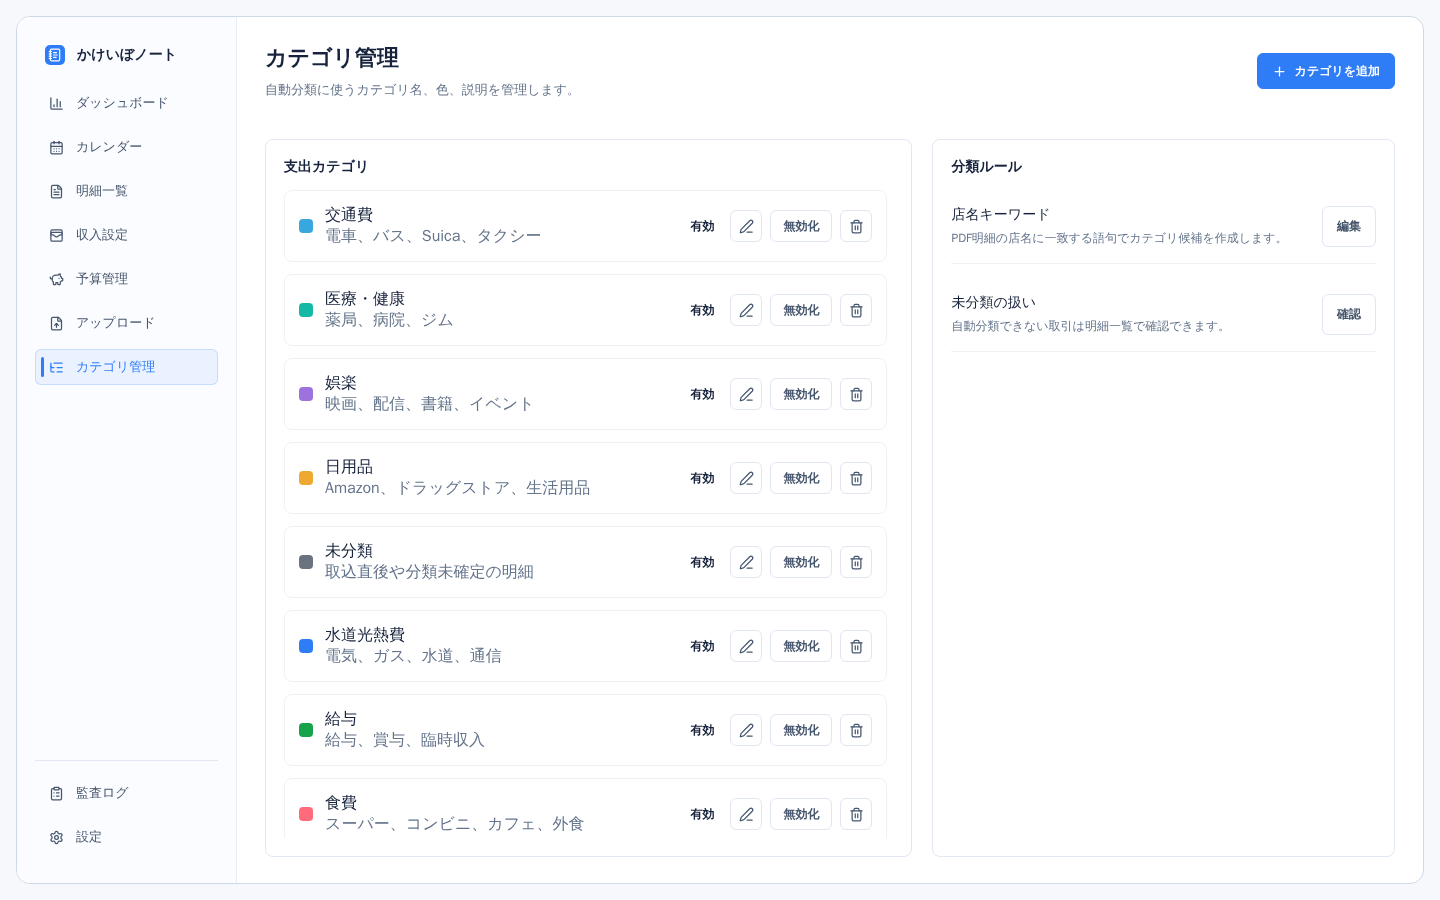
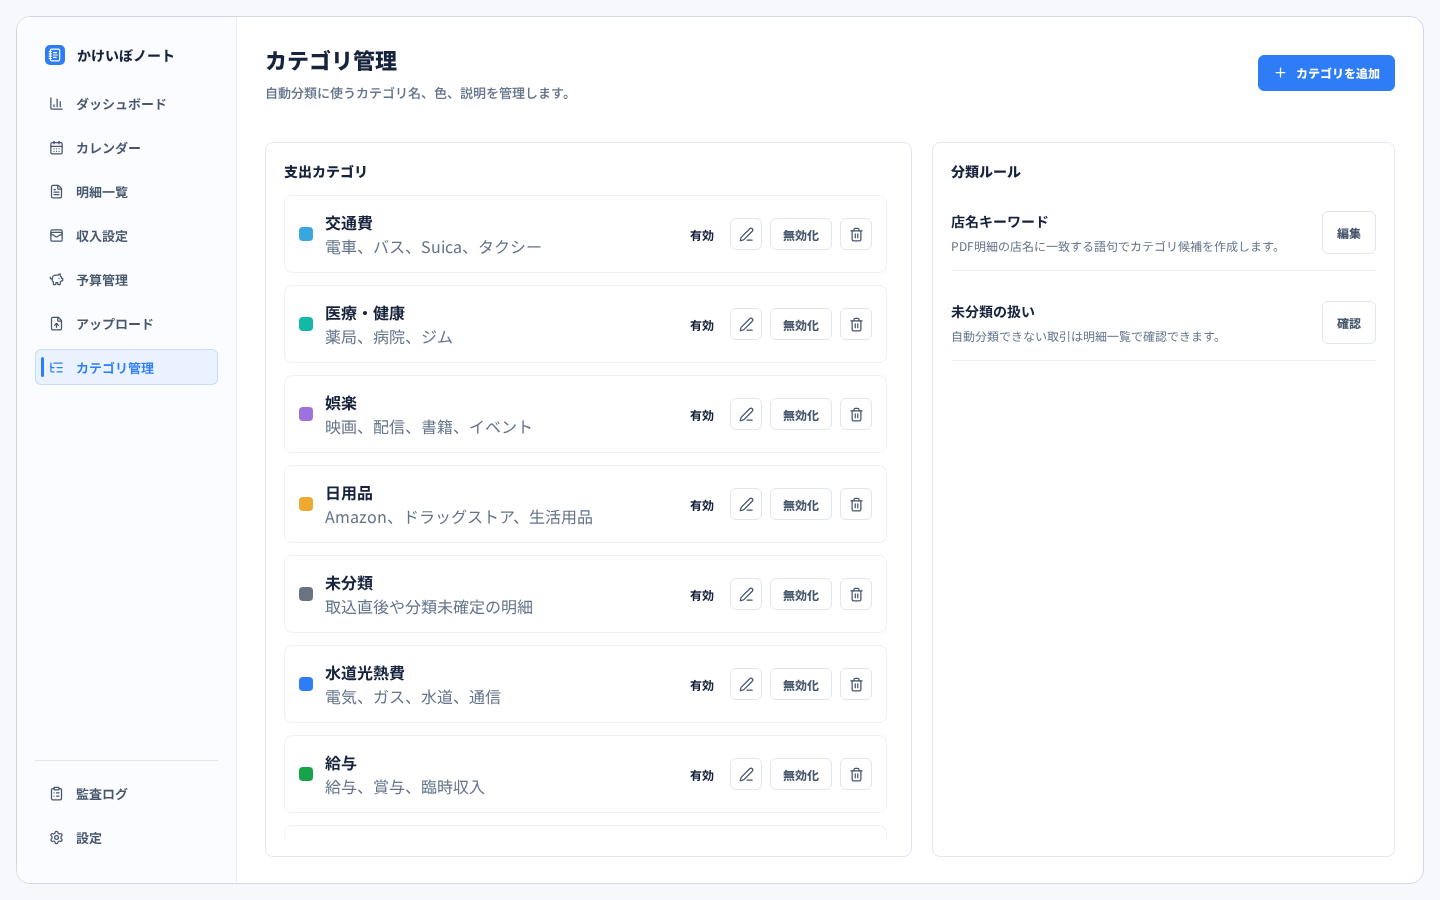
feat: add new design screenshots and update font settings to use Fontsource for Noto Sans JP

diff --git a/frontend/app/globals.css b/frontend/app/globals.css
@@ -26,7 +26,7 @@
   --info: #38a7e0;
   --violet: #9c72de;
   --radius: 8px;
-  --font-sans: "Noto Sans JP", "M PLUS 1p", Meiryo, "Yu Gothic", "Hiragino Kaku Gothic ProN", system-ui, sans-serif;
+  --font-sans: "Noto Sans JP Variable", "Noto Sans JP", "M PLUS 1p", Meiryo, "Yu Gothic", "Hiragino Kaku Gothic ProN", system-ui, sans-serif;
   --font-mono: "JetBrains Mono", "Fira Code", "SFMono-Regular", Consolas, "Liberation Mono", monospace;
 }
 

diff --git a/frontend/app/layout.tsx b/frontend/app/layout.tsx
@@ -1,6 +1,7 @@
 import type { Metadata } from "next";
 import { HydrationMarker } from "@/components/hydration-marker";
 import { Providers } from "@/components/providers";
+import "@fontsource-variable/noto-sans-jp/wght.css";
 import "./globals.css";
 
 export const metadata: Metadata = {

diff --git a/docs/specs/frontend-architecture.md b/docs/specs/frontend-architecture.md
@@ -8,7 +8,7 @@ Next.js 側には業務判断を重複実装せず、ドメインルールはバ
 
 UIライブラリは shadcn/ui と Tailwind CSS を使う。
 
-UIフォントは `frontend/app/globals.css` のCSS変数を正とする。本文・UIは `Noto Sans JP`、`M PLUS 1p` を優先し、コードや等幅表示は `JetBrains Mono`、`Fira Code` を優先する。
+UIフォントは `frontend/app/globals.css` のCSS変数を正とする。本文・UIは Fontsource 経由で自己ホストする `Noto Sans JP Variable` を優先し、コードや等幅表示は `JetBrains Mono`、`Fira Code` を優先する。
 
 サーバー状態管理は TanStack Query を使う。グローバル状態は最小限にする。
 
